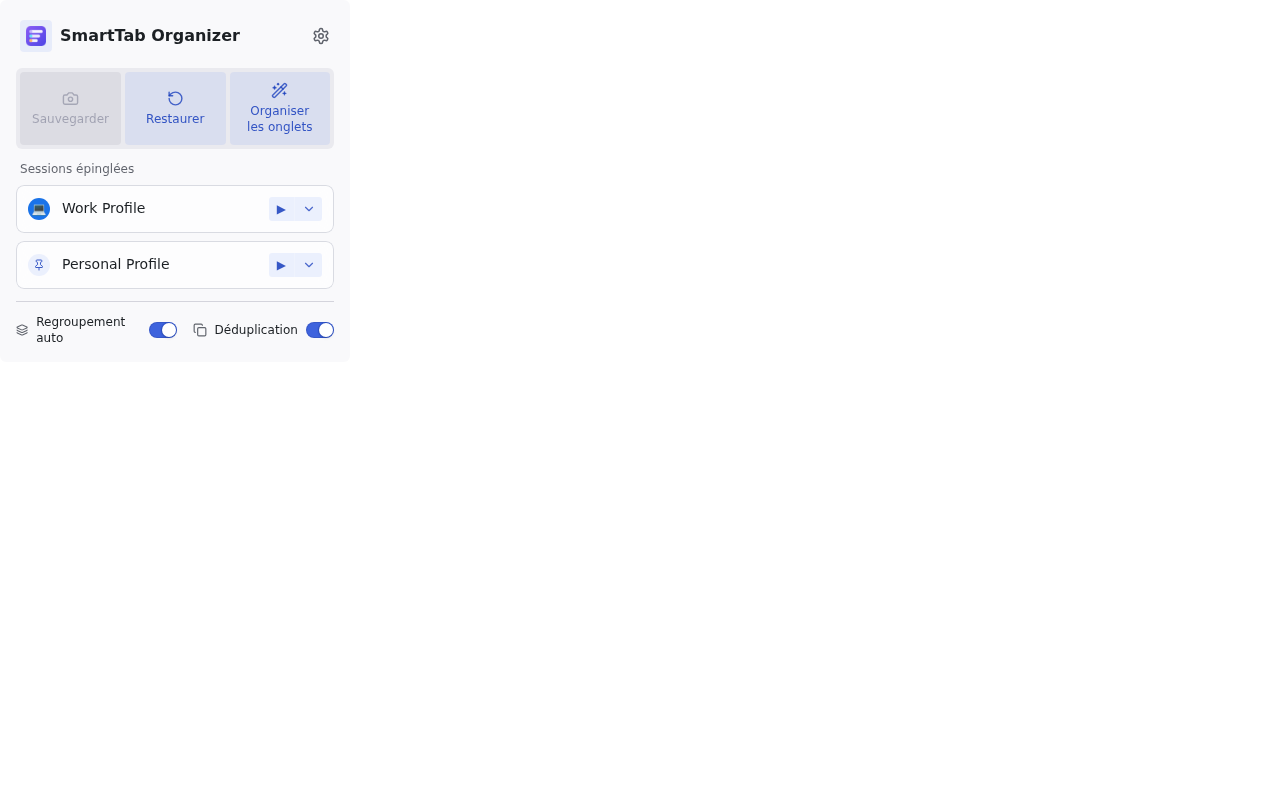
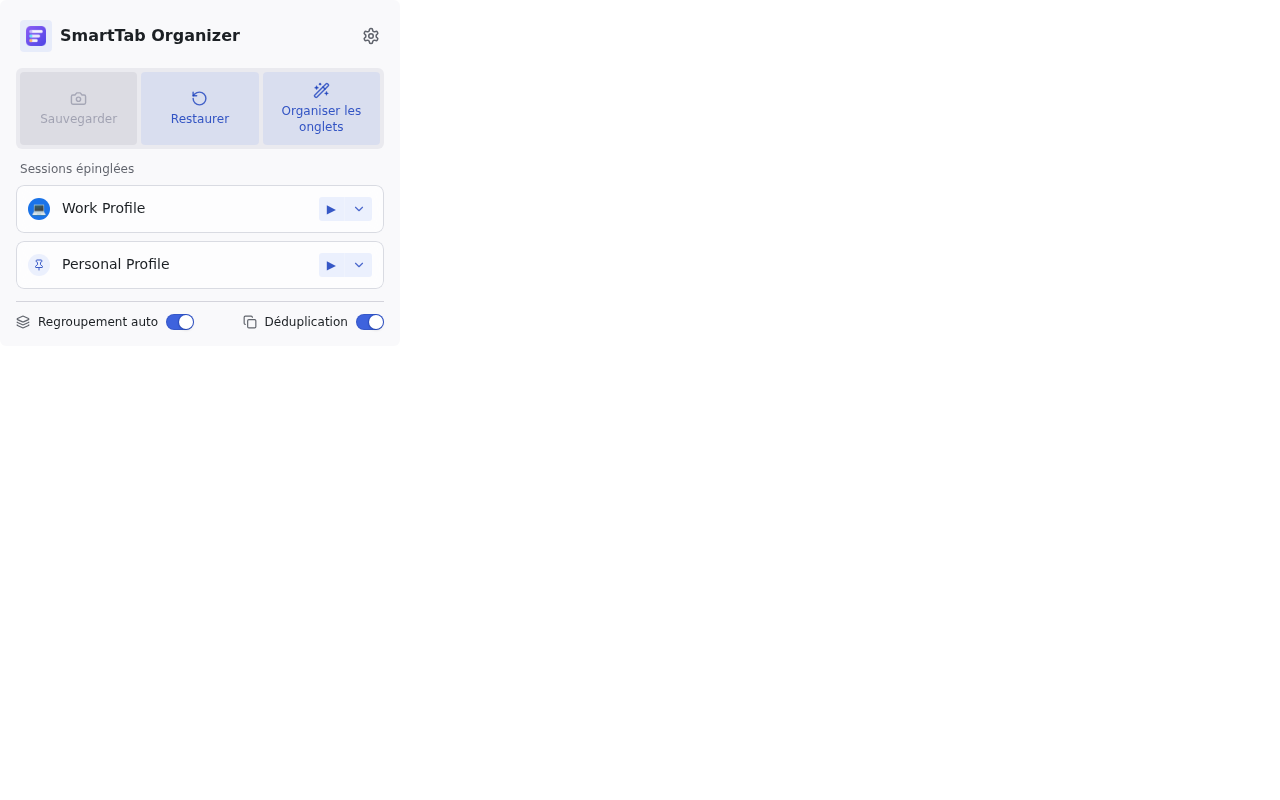
refactor(popup): widen popup to 400px for better label fit
The French label "Regroupement auto" wrapped on two lines in the footer
and the toolbar buttons felt cramped. A 400px width lets footer labels
stay on one line across the three locales and gives the action buttons
more breathing room.

https://claude.ai/code/session_01VJTvin9FSuX135vUoC8rVM

diff --git a/src/pages/popup.tsx b/src/pages/popup.tsx
@@ -35,7 +35,7 @@ function PopupContent() {
   const hasRules = isLoaded && (settings?.domainRules?.length ?? 0) > 0;
 
   return (
-    <Box data-testid="popup" width="350px" p="4" style={{ background: "var(--gray-a2)", borderRadius: "var(--radius-3)" }} aria-label={getMessage('popupTitle')}>
+    <Box data-testid="popup" width="400px" p="4" style={{ background: "var(--gray-a2)", borderRadius: "var(--radius-3)" }} aria-label={getMessage('popupTitle')}>
       <Flex gap="3" direction="column" width="100%">
         <PopupHeader title={getMessage('popupTitle')} onSettingsOpen={openOptionsPage} />
 

diff --git a/e2e-screenshots/pages/popup.screenshots.ts b/e2e-screenshots/pages/popup.screenshots.ts
@@ -55,9 +55,9 @@ test.describe('Popup screenshots', () => {
       'popup-content',
       '#popup-app',
       async (page) => {
-        // Resize viewport to popup width (350 px content + 2 px breathing room)
+        // Resize viewport to popup width (400 px content + 2 px breathing room)
         // so that #popup-app fills exactly the popup dimensions without whitespace.
-        await page.setViewportSize({ width: 352, height: 800 });
+        await page.setViewportSize({ width: 402, height: 800 });
         await page.waitForTimeout(300);
       },
     );

diff --git a/src/components/UI/PopupHeader/PopupHeader.stories.tsx b/src/components/UI/PopupHeader/PopupHeader.stories.tsx
@@ -14,7 +14,7 @@ const meta: Meta<typeof PopupHeader> = {
   },
   decorators: [
     (Story) => (
-      <Box style={{ width: 350 }}>
+      <Box style={{ width: 400 }}>
         <Story />
       </Box>
     ),
